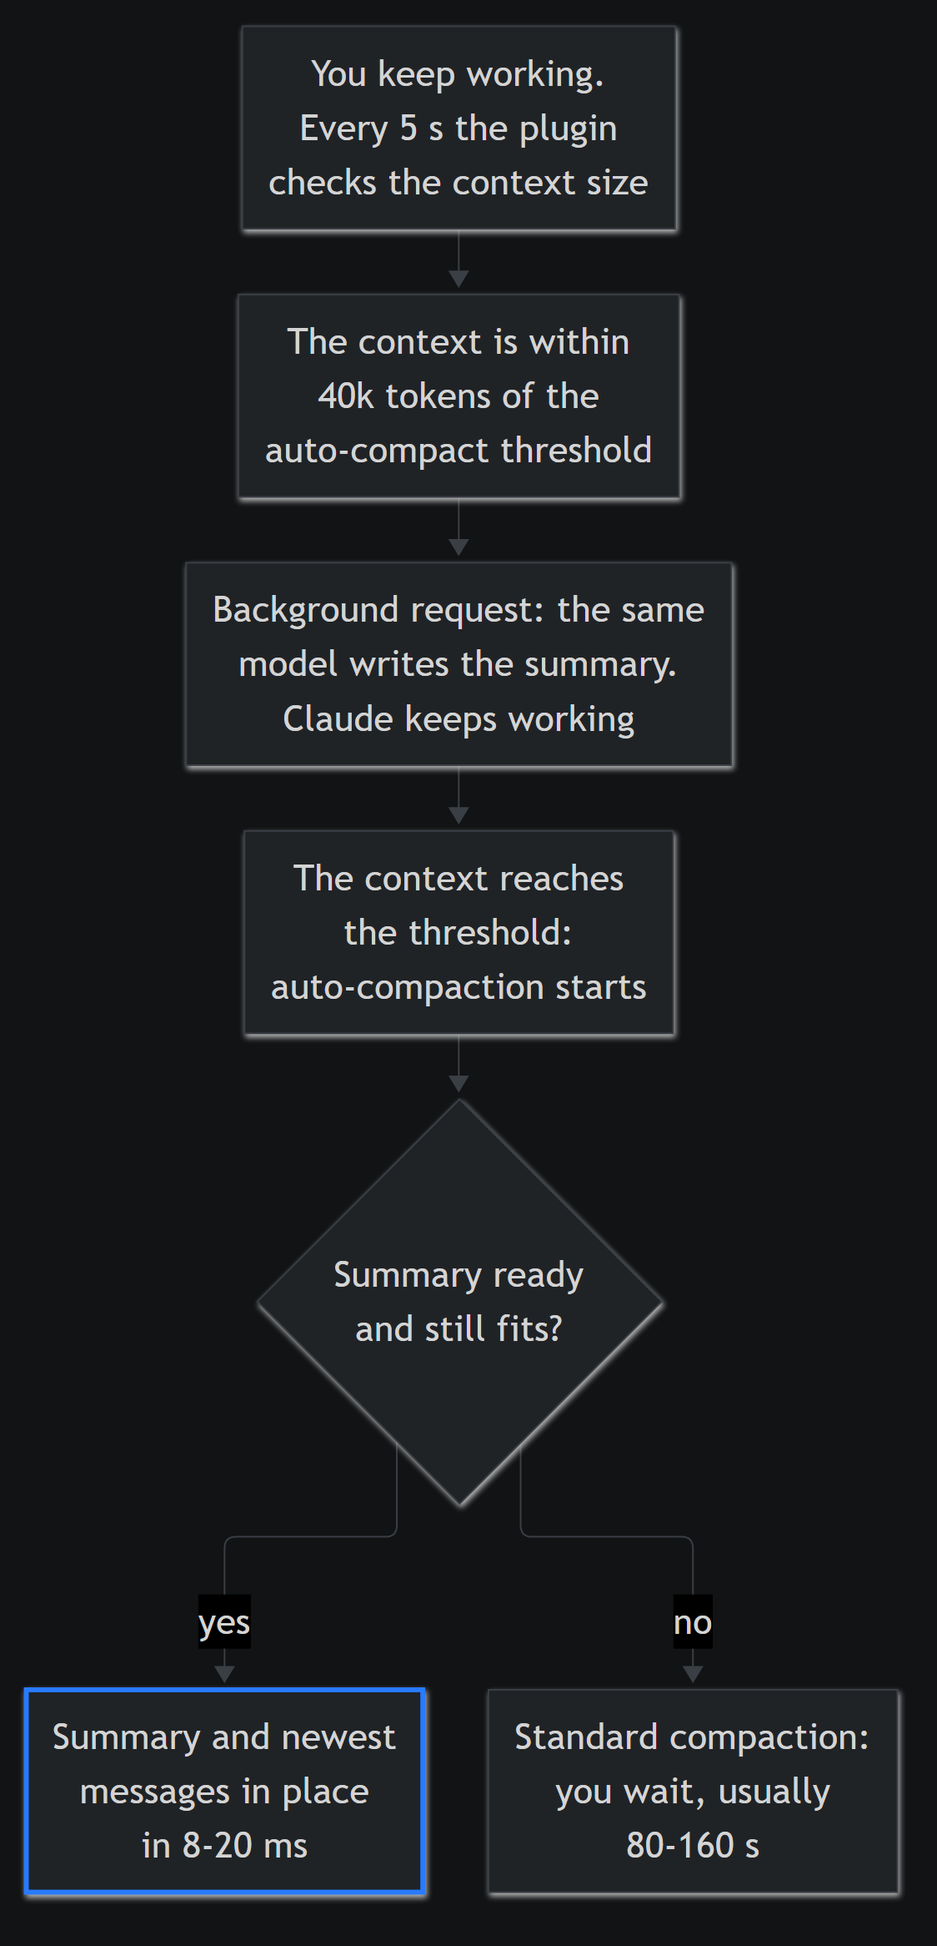
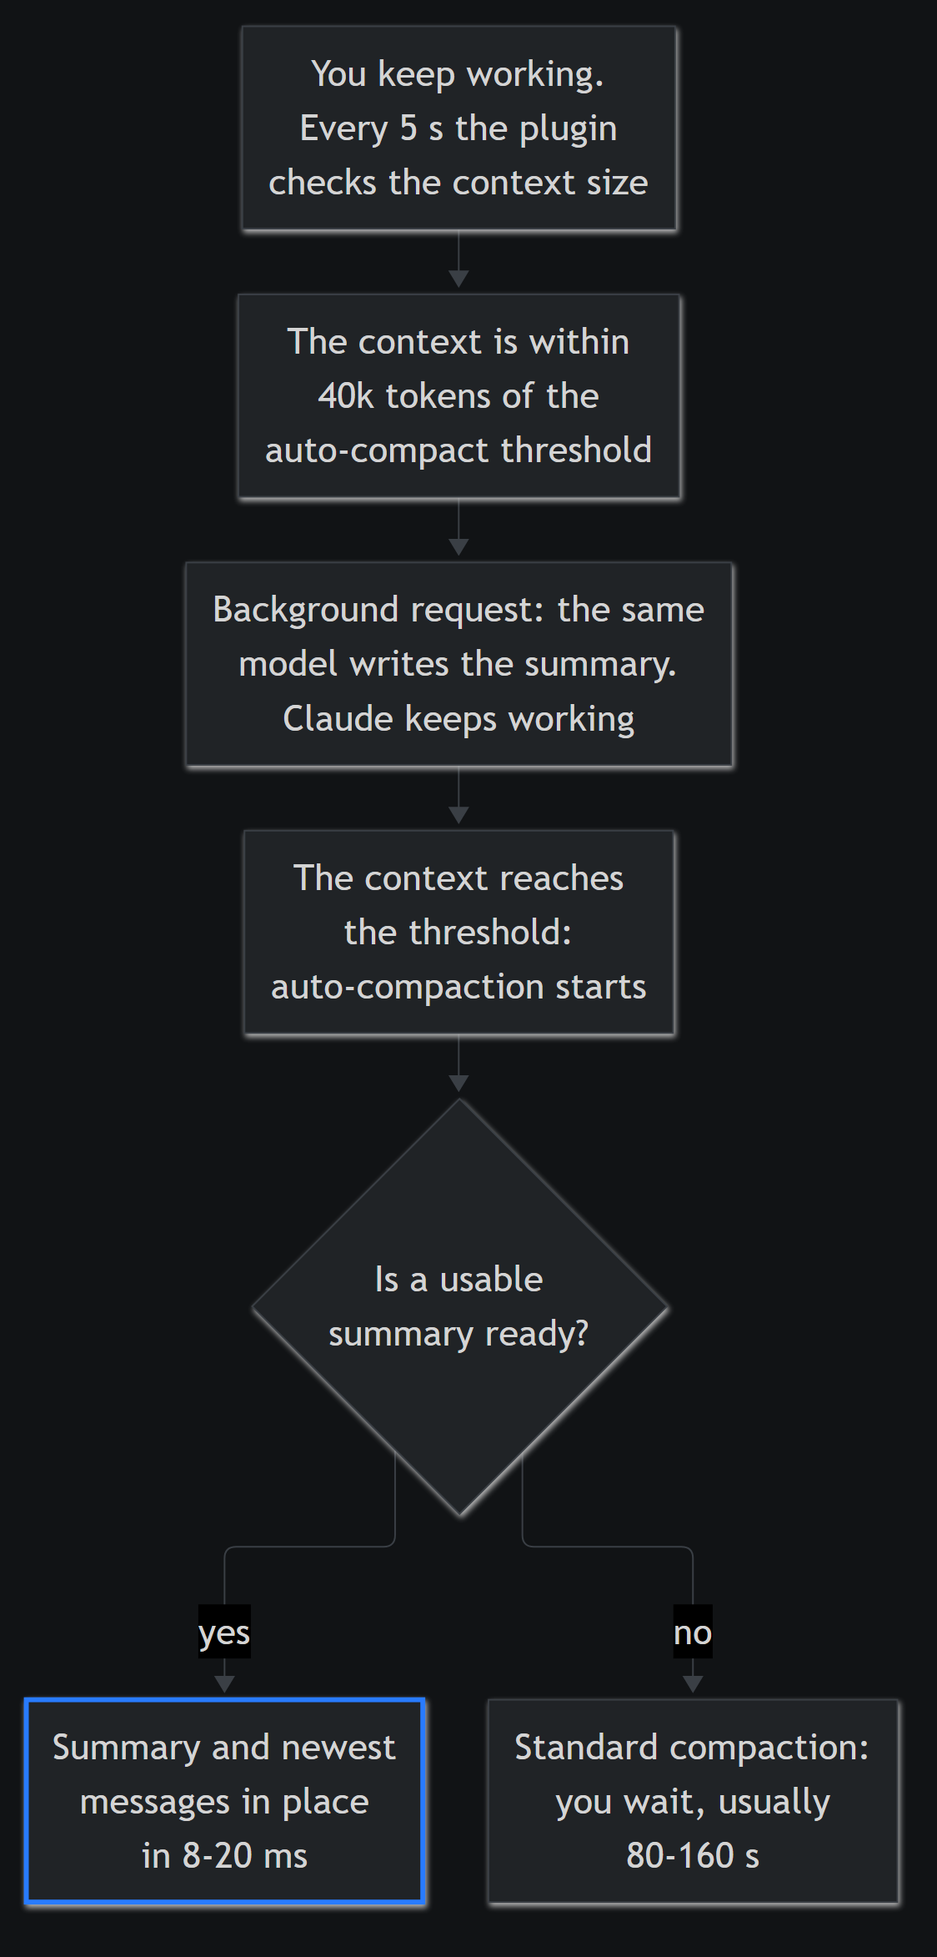
README: check that it works from the VS Code panel, separate terminal and extension steps, plain-language cost and privacy
Second pass after reading the README as a VS Code extension user: a
three-step check that does not depend on the event log, installation and
update/disable/remove steps for the Manage plugins window, what to do when
something goes wrong, terms explained where they first appear, and the
compaction statistic recounted without test sessions (14 of 17).

diff --git a/README.md b/README.md
@@ -4,95 +4,106 @@
 
 Auto-compaction for Claude Code without the wait.
 
-When a long session reaches the auto-compact threshold (the context size at which Claude Code compacts), Claude Code stops and has the model summarize the conversation. You wait until it is done: in our Opus sessions that took 80-160 seconds, once over 4 minutes.
+Claude Code keeps the whole conversation in its context, measured in tokens (small pieces of text). When the context reaches the auto-compact threshold, Claude Code stops and has the model summarize the conversation. You wait until it is done: in our Opus sessions that took 80-160 seconds, once over 4 minutes.
 
-live-compact has the summary written in the background, shortly before the threshold, while you keep working. When auto-compaction starts, the plugin puts the ready summary in place in 8-20 ms and keeps the newest messages unchanged. If no summary is ready, Claude Code runs its standard compaction, as it would without the plugin.
+live-compact has the summary written in the background, shortly before the threshold, while you keep working. When auto-compaction starts, the plugin puts the ready summary in place within 8-20 milliseconds and keeps the newest messages unchanged. If no summary is ready, Claude Code runs its standard compaction, as it would without the plugin.
 
 <img src="assets/before-after.gif" alt="Standard auto-compaction blocks the session for 1:38; with live-compact it is done in 0.02 s and you keep typing" width="480">
 
 Illustration with measured times: standard compaction in one of our Opus sessions took 1:38 (the clock in the animation runs 14 times faster); live-compact took 0.008-0.02 s.
 
 > [!IMPORTANT]
-> live-compact is built on Claude Code's plugin hook API, which is in early access: there is nothing to turn on, but the API may change between Claude Code releases. Tested on Windows only.
+> live-compact uses an early-access feature of Claude Code (plugin hooks). You do not need to enable anything, but the feature may change between Claude Code releases. Tested on Windows only.
 
 ## How it works
 
-<img src="assets/how-it-works.png" alt="Every 5 s the plugin checks the context size; within 40k tokens of the threshold a background request writes the summary; at auto-compaction a ready summary goes in place in 8-20 ms, otherwise standard compaction runs" width="420">
+<img src="assets/how-it-works.png" alt="Every 5 s the plugin checks the context size; within 40k tokens of the threshold a background request writes the summary; at auto-compaction a ready summary goes in place within 8-20 ms, otherwise standard compaction runs" width="420">
 
-Diagram source: [assets/how-it-works.mmd](assets/how-it-works.mmd).
+Terms such as session, skill, hook and subagent are explained in the [Claude Code glossary](https://code.claude.com/docs/en/glossary).
 
 1. Every 5 seconds the plugin checks the context size, and once a minute the auto-compact threshold.
 2. When the context comes within 40k tokens of the threshold (or within 20% of the threshold, whichever is smaller), the plugin sends one background request: the same model and the same conversation, asked only to write the summary. Claude keeps working on your request meanwhile.
-3. When auto-compaction starts (or you run `/compact` with no instructions), the plugin replaces the conversation with:
-   - a first message with the summary, the path to the session file with the full conversation, and the skills used earlier in the session (newest first, up to 5,000 tokens each and 25,000 in total, the same limits as standard compaction),
+3. When auto-compaction starts (or you type `/compact` on its own), the plugin replaces the conversation with:
+   - a first message with the summary, the path to the session file (where Claude Code saves the full conversation), and the skills used earlier in the session (instructions Claude loaded for a task; newest first, up to 5,000 tokens each and 25,000 in total, the same limits as standard compaction),
    - every message after the last one the background request saw, unchanged, including messages you typed while Claude was working.
 4. Otherwise Claude Code runs its standard compaction:
    - no summary is ready yet: the threshold came first, for example after one step that added more than about 40k tokens (several large files read at once), or while the background request was still running;
    - the ready summary was dropped by `/clear`, resuming the session or reloading the plugin;
-   - the summary no longer fits: you rewound the conversation to before that last message, it has 4,096 or more messages, or a message you typed while Claude was working has an image or another attachment;
-   - `/compact` with instructions, and subagents (helper agents Claude starts for part of a task).
+   - the summary no longer fits the conversation: you went back to an earlier message (`Esc` twice, or `/rewind`) from before the last message the summary covers, the conversation has 4,096 or more messages, or a message you typed while Claude was working has an image or another attachment;
+   - `/compact` with your own instructions (for example `/compact keep the test results`), and subagents (helper agents Claude starts for part of a task).
 
-The summary prompt follows the structure of Claude Code's own summary. If your `CLAUDE.md` has a section on compaction (for example `# Compact instructions`), the summary follows it.
+The summary prompt follows the structure of Claude Code's own summary. If your project instructions file (`CLAUDE.md`) has a section on compaction (for example `# Compact instructions`), the summary follows it.
 
 ## Requirements
 
-- Claude Code 2.1.300 or later, in the terminal or in the VS Code extension. Tested on 2.1.300, 2.1.301, 2.1.312, 2.1.314, 2.1.316 and 2.1.317; we use it every day in the extension in Cursor. Check your version with `claude --version`, or `/status` in the extension.
+- Claude Code 2.1.300 or later, in the terminal or in the VS Code extension. Tested on 2.1.300, 2.1.301, 2.1.312, 2.1.314, 2.1.316 and 2.1.317; we use it every day in the VS Code extension in Cursor (an editor built on VS Code). To check your version: in the extension, the extension's version number in the Extensions view is the Claude Code version, or type `/status`; in a terminal, run `claude --version`.
 - Windows. macOS and Linux are not tested yet. If you try it there, please [tell us how it went](https://github.com/SocialBuzzStudio/live-compact/issues).
-- Auto-compaction on (the default). The plugin uses whatever threshold Claude Code uses, so `autoCompactWindow` and `/autocompact` keep working.
+- Auto-compaction on. It is on by default ([`autoCompactEnabled`](https://code.claude.com/docs/en/settings-reference#autocompactenabled)), and the plugin uses whatever threshold Claude Code uses.
 
 ## Installation
 
-In a terminal:
+### In a terminal
+
+If you run `claude` in a terminal:
 
 ```
 claude plugin install live-compact --marketplace SocialBuzzStudio/live-compact
 ```
 
-This adds this repository as a plugin source (the `socialbuzzstudio` marketplace) and installs the plugin, whose full name is `live-compact@socialbuzzstudio`.
+This adds this repository as a plugin source (the `socialbuzzstudio` marketplace) and installs the plugin, whose full name is `live-compact@socialbuzzstudio`. Then start `claude` again in the sessions that were already open.
 
-In the VS Code extension, which does not add `claude` to your terminal: type `/plugins` in the prompt box, add `SocialBuzzStudio/live-compact` on the **Marketplaces** tab, then click **Install** next to live-compact on the **Plugins** tab and choose **Install for you**.
+### In the VS Code extension
 
-Then restart the sessions that were already open: in a terminal, start `claude` again; in VS Code, run **Developer: Reload Window**.
+If you use only the Claude Code panel in VS Code or Cursor (the extension does not add `claude` to your terminal):
+
+1. Type `/plugins` in the prompt box. The **Manage plugins** window opens.
+2. On the **Marketplaces** tab, enter `SocialBuzzStudio/live-compact` in the "GitHub repo, URL, or path" field and click **Add**.
+3. On the **Plugins** tab, click **Install** next to live-compact and choose **Install for you**.
+
+The change applies right away to the conversations open in that window. If the window shows "Restart Claude to apply plugin changes", click it. A new conversation always starts with the plugin.
 
 ## Check that it works
 
-1. `claude plugin list` shows `live-compact@socialbuzzstudio` as `enabled` (in VS Code: the **Plugins** tab of `/plugins`).
-2. At the first auto-compaction, a dim line appears in the conversation. The model does not see it, and it is not saved in the session file.
-3. To see the plugin at work earlier, turn on the [event log](#event-log): a `fork-start` line means the background request has started.
+1. Installed: `claude plugin list` shows `live-compact@socialbuzzstudio` with `Status: ✔ enabled`. In the extension: live-compact is on in the **Plugins** tab of `/plugins`.
+2. Active: start a new conversation, send one short message, then type `/compact`. The line `live-compact: no summary ready yet; standard compaction` appears (in the extension it starts with `live-compact plugin:`). This only compacts that short test conversation.
+3. Working: at every auto-compaction a line starting with `live-compact:` appears, and when the plugin's summary is used, compaction takes a moment instead of minutes. No such line after an auto-compaction means the plugin was not active in that conversation.
+
+The model does not see these lines, and they are not saved in the session file.
 
 | Line | Meaning |
 | --- | --- |
-| `live-compact: compacted with the summary prepared in the background; N recent messages kept verbatim; skills carried over: S` | The plugin compacted: N messages after the summary kept unchanged, S skills carried over |
-| `live-compact: no summary ready yet; standard compaction` | No summary was ready (step 4 above). A `/compact` early in a session always gives this line |
-| `live-compact: summary not used (<reason>); standard compaction` | The summary no longer fits: `anchor-missing` (you rewound the conversation), `too-long` (4,096 or more messages), `image-sent-during-turn` (a message you typed while Claude was working has an image or another attachment) |
-| `live-compact: background summary failed: <reason>` | The background request failed (`api-error <status>`, `empty-reply`, `nothing-to-fork`, or an error message). Nothing else changes: it tries again after another 20k tokens, and until then compaction is standard |
+| `live-compact: compacted with the summary prepared in the background; N recent messages kept verbatim; skills carried over: S` | The plugin compacted: N messages after the summary kept verbatim (unchanged), S skills carried over |
+| `live-compact: no summary ready yet; standard compaction` | No summary was ready (step 4 above). A `/compact` early in a conversation always gives this line |
+| `live-compact: summary not used (<reason>); standard compaction` | The summary no longer fits: `anchor-missing` (you went back to an earlier message), `too-long` (4,096 or more messages), `image-sent-during-turn` (a message you typed while Claude was working has an image or another attachment) |
+| `live-compact: background summary failed: <reason>` | The background request failed (for example `api-error 529`, or an error message). Nothing else changes: it tries again after another 20k tokens, and until then Claude Code uses standard compaction |
 
-After `/compact` with instructions, and in subagents, there is no line: those always use standard compaction.
+After `/compact` with your own instructions, and in subagents, there is no line: those always use standard compaction.
 
 > [!NOTE]
 > The first message after compaction looks as if you had sent it ("This session is being continued from a previous conversation..."). It is the summary: plugins cannot mark a message as a compaction summary the way Claude Code does.
 
 ## Cost and privacy
 
-The plugin is free (MIT license). It sends one background request per compaction: the conversation and the summary prompt, to the same model, mostly served from the prompt cache (input the API has already processed, which costs less than new input). When compaction uses that summary, it takes the place of the standard compaction request, so the cost is about the same. The request is extra when its summary goes unused: after `/clear`, when the session ends before compaction, or when compaction is standard after all. A failed request is tried again after another 20k tokens.
+The plugin is free (MIT license: free to use and change). For each compaction it sends one background request with the whole conversation, about what standard compaction itself would send; most of it usually comes from the prompt cache, which costs less than new input. On a Claude subscription it counts toward your plan's usage limits like any other request in the session; with an API key it is billed like one. When compaction uses the summary, it takes the place of the standard compaction request, so the total stays about the same. The request is extra when its summary goes unused: after `/clear`, when the session ends before compaction, or when compaction is standard after all. A failed request is tried again after another 20k tokens.
 
-The plugin talks only to the Claude API, through Claude Code's own model call, and writes no files unless you turn on the event log. Details: [what it runs, sends and stores](mod/README.md#what-it-runs-sends-and-stores).
+The plugin sends the conversation only where Claude Code already sends it: the same model, through Claude Code's own model call (Anthropic's Claude API, unless you set up another provider such as Amazon Bedrock). It writes no files unless you turn on the event log, which holds counts, times and reasons, no conversation text. Details: [what it runs, sends and stores](mod/README.md#what-it-runs-sends-and-stores).
 
 ## Limitations
 
 - After the plugin compacts, the context is larger than after standard compaction: the messages after the summary stay unchanged, usually up to about 40k tokens, so the next compaction comes sooner.
-- Images in the messages kept after compaction are dropped. Text, including tool results, stays.
-- If you have your own `PreCompact` or `PostCompact` hooks in `settings.json`, they may not run when the plugin compacts.
-- In our sessions on 2 and 3 November 2026, 16 of 21 auto-compactions used the plugin's summary. In the other 5, the summary was not ready yet.
-- After `/reload-plugins` in a running session, the first message after compaction has no path to the session file until the session restarts.
+- Images in tool results among the messages kept after compaction are dropped; their text stays. A message with an image that you type while Claude is working leads to standard compaction instead, so that image is not lost.
+- If you set up your own hooks that run before or after compaction (`PreCompact` or `PostCompact` in `settings.json`), they may not run when the plugin compacts.
+- In our everyday sessions on 2 and 3 November 2026 (test sessions not counted), 14 of 17 auto-compactions used the plugin's summary. In the other 3, the summary was not ready yet.
+- If the plugin was installed or reloaded while a conversation was open, the first message after compaction in that conversation has no path to the session file.
 - Not yet verified:
-  - whether the VS Code extension shows the `live-compact:` lines;
-  - whether tools that Claude loaded on demand (with `ToolSearch`) before compaction need to be loaded again;
+  - whether tools that Claude loads on demand need to be loaded again after compaction;
   - whether, after you resume a session, a later standard compaction carries the full skill texts from the plugin's first message.
 
 ## Update, disable or remove
 
-Update, then restart the session:
+### In a terminal
+
+Update, then start `claude` again:
 
 ```
 claude plugin update live-compact@socialbuzzstudio
@@ -111,15 +122,23 @@ claude plugin uninstall live-compact@socialbuzzstudio
 claude plugin marketplace remove socialbuzzstudio
 ```
 
-In the VS Code extension, use `/plugins`: the switch next to live-compact turns it off, the trash icon removes it. In a terminal session the change applies after `/reload-plugins` or a restart. If you set `LIVE_COMPACT_LOG_DIR`, remove it from `settings.json` and delete the log folder yourself.
+In a running session, turning it off or removing it applies after `/reload-plugins` or a restart.
+
+### In the VS Code extension
+
+Type `/plugins`. On the **Plugins** tab, next to live-compact: the switch turns it off, the update button ("Update plugin to the latest version") updates it, and the uninstall button removes it. To remove the marketplace too, use the remove button next to `socialbuzzstudio` on the **Marketplaces** tab. Changes apply right away.
+
+If you set `LIVE_COMPACT_LOG_DIR`, remove it from `settings.json` and delete the log folder yourself.
 
 ## Event log
 
-Optional, for troubleshooting. Set `LIVE_COMPACT_LOG_DIR` to a folder to get one JSON line per event in `<session id>.jsonl`. Without it, the plugin writes nothing to disk. To log in every session, add it to `~/.claude/settings.json` (on Windows `%USERPROFILE%\.claude\settings.json`):
+Optional, for troubleshooting. Add `LIVE_COMPACT_LOG_DIR` to the `env` section of `~/.claude/settings.json` (on Windows `%USERPROFILE%\.claude\settings.json`). If the file already has an `"env"` section, add the line inside it. Replace `you` with your Windows user name; the folder is created automatically.
 
 ```json
 { "env": { "LIVE_COMPACT_LOG_DIR": "C:/Users/you/claude-logs" } }
 ```
+
+New conversations then write one JSON line per event to `<session id>.jsonl`, one file per conversation (the newest file is the current one). The log holds counts, times and reasons, no conversation text. Without the setting, the plugin writes nothing to disk.
 
 Each line has `t` (time in ms) and `ev`:
 
@@ -132,7 +151,9 @@ Each line has `t` (time in ms) and `ev`:
 
 ## Help and license
 
-Questions and problems: [GitHub Issues](https://github.com/SocialBuzzStudio/live-compact/issues). Made by SocialBuzzStudio, not affiliated with Anthropic. MIT license, see [LICENSE](LICENSE).
+If compaction takes minutes again and no `live-compact:` line appears, or you see errors from live-compact, turn the plugin off (above) and tell us in [GitHub Issues](https://github.com/SocialBuzzStudio/live-compact/issues). Claude Code may change the plugin feature in an update; we have not tested what happens to live-compact then.
+
+Made by SocialBuzzStudio, not affiliated with Anthropic. MIT license, see [LICENSE](LICENSE).
 
 ## Development
 
@@ -151,4 +172,5 @@ claude --plugin-dir ./mod
 - [mod/hooks/skills.ts](mod/hooks/skills.ts): skills carried over to the first message
 - [mod/hooks/summary-prompt.ts](mod/hooks/summary-prompt.ts): the summary prompt and the first message
 - [mod/tests/](mod/tests/): tests
+- [assets/how-it-works.mmd](assets/how-it-works.mmd): source of the diagram
 - [.claude-plugin/marketplace.json](.claude-plugin/marketplace.json): the `socialbuzzstudio` marketplace

diff --git a/mod/README.md b/mod/README.md
@@ -1,22 +1,18 @@
 # live-compact
 
-Auto-compaction for Claude Code without the wait. Shortly before the auto-compact threshold, the plugin asks the session's own model for a summary in the background. When auto-compaction starts, it puts that summary in place in milliseconds and keeps the newest messages unchanged. If no summary is ready, Claude Code runs its standard compaction.
+Auto-compaction for Claude Code without the wait. Shortly before the auto-compact threshold, the plugin asks the session's own model for a summary in the background. When auto-compaction starts, it puts that summary in place within milliseconds and keeps the newest messages unchanged. If no summary is ready, Claude Code runs its standard compaction.
 
-Built on Claude Code's plugin hook API, which is in early access, and tested on Windows only. Requirements, limitations, and how to disable or remove the plugin: [full documentation](https://github.com/SocialBuzzStudio/live-compact).
-
-Install in a terminal, then restart running sessions:
-
-```
-claude plugin install live-compact --marketplace SocialBuzzStudio/live-compact
-```
+Uses an early-access feature of Claude Code (plugin hooks); tested on Windows only. Installation in a terminal or in the VS Code extension, requirements, limitations, and how to disable or remove the plugin: [full documentation](https://github.com/SocialBuzzStudio/live-compact#installation).
 
 ## What it runs, sends and stores
 
-- Runs one hooks module (`hooks/register.ts`) inside Claude Code. It starts no processes and installs no packages.
-- Sends one background request per compaction through Claude Code's own model call (`$.model.fork`), to the same Claude API and with the same conversation that standard compaction would send. If that request fails, it is sent again after another 20k tokens; if its summary goes unused (for example after `/clear`), the request was extra. It contacts no other service.
-- Stores nothing by default. Only if you set `LIVE_COMPACT_LOG_DIR` does it write one JSON line per event to `<session id>.jsonl` in that folder: token counts, timings and reasons, without conversation text. It writes no other file: no settings, instructions, build or start-up files.
+- Runs one code file (`hooks/register.ts`) inside Claude Code. It starts no programs and installs nothing.
+- Sends the conversation only where Claude Code already sends it: one background request per compaction to the same model, through Claude Code's own model call, the same content standard compaction would send. If that request fails, it is sent again after another 20k tokens; if its summary goes unused (for example after `/clear`), the request was extra. It contacts no other service.
+- Stores nothing by default. Only if you set `LIVE_COMPACT_LOG_DIR` does it write one line per event to `<session id>.jsonl` in that folder: counts, times and reasons, no conversation text. It changes no settings or other files.
 
 ## Hooks
+
+For developers and reviewers: the Claude Code events the plugin uses.
 
 - `session.start`: starts a 5-second timer that checks the context size (and, once a minute, the auto-compact threshold). Passes the event through unchanged.
 - `classic.SessionStart`: reads the path of the session file, which goes into the summary message, and drops a ready summary after `/clear` or a resumed session. Passes the event through unchanged; it does not touch settings, instructions or other hooks.
